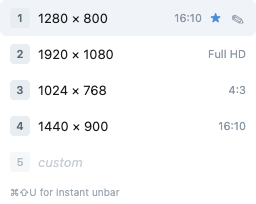
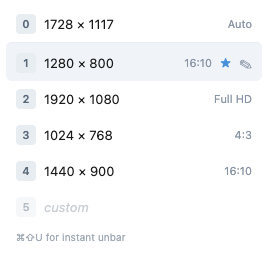
Improve edit button hit area and hover state, update screenshots
Larger click target (padding 6px 8px with negative margin to keep
layout stable) and a visible blue pill on hover, matching the delete
button's pattern. Updated all three store screenshots to show the
new auto row.

diff --git a/src/popup.html b/src/popup.html
@@ -49,10 +49,10 @@ body {
   display: none;
   border: none; background: none;
   color: #8a95a5; font-size: 14px;
-  cursor: pointer; padding: 0 2px;
+  cursor: pointer; padding: 6px 8px; margin: -6px -8px;
 }
 .row:hover .edit-btn { display: inline-flex; }
-.edit-btn:hover { color: #4A90D9; }
+.edit-btn:hover { color: #3a7bc8; background: #d0e2ff; border-radius: 4px; }
 
 .editor {
   padding: 8px 10px;